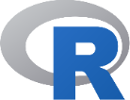
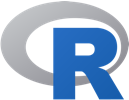
Add high resolution images when available

diff --git a/public/index.html b/public/index.html
@@ -115,7 +115,7 @@
                                         GitHub Code Repository
                                     </div>
                                     <div class="row align-items-center justify-content-center">
-                                        <img src="/static/img/github.png" />
+                                        <img src="/static/img/github.png" srcset="/static/img/github@2x.png 2x"/>
                                     </div>
                                 </a>
                             </div>
@@ -124,7 +124,7 @@
                                     Journal Link
                                 </div>
                                 <div class="row align-items-center justify-content-center">
-                                    <img src="/static/img/journal.png" />
+                                    <img src="/static/img/journal.png" srcset="/static/img/journal@2x.png 2x" />
                                 </div>
                             </div>
                             <div class="col-1"></div>

diff --git a/public/client.js b/public/client.js
@@ -365,7 +365,8 @@ function populateProvidersChecks(providers) {
             for: provider
         });
         var img = $('<img />', {
-            src: '/static/img/' + provider + '.png'
+            src: '/static/img/' + provider + '.png',
+            srcset: '/static/img/' + provider + '@2x.png 2x',
         });
         labelImg.append(img);
         divImg.append(labelImg);
